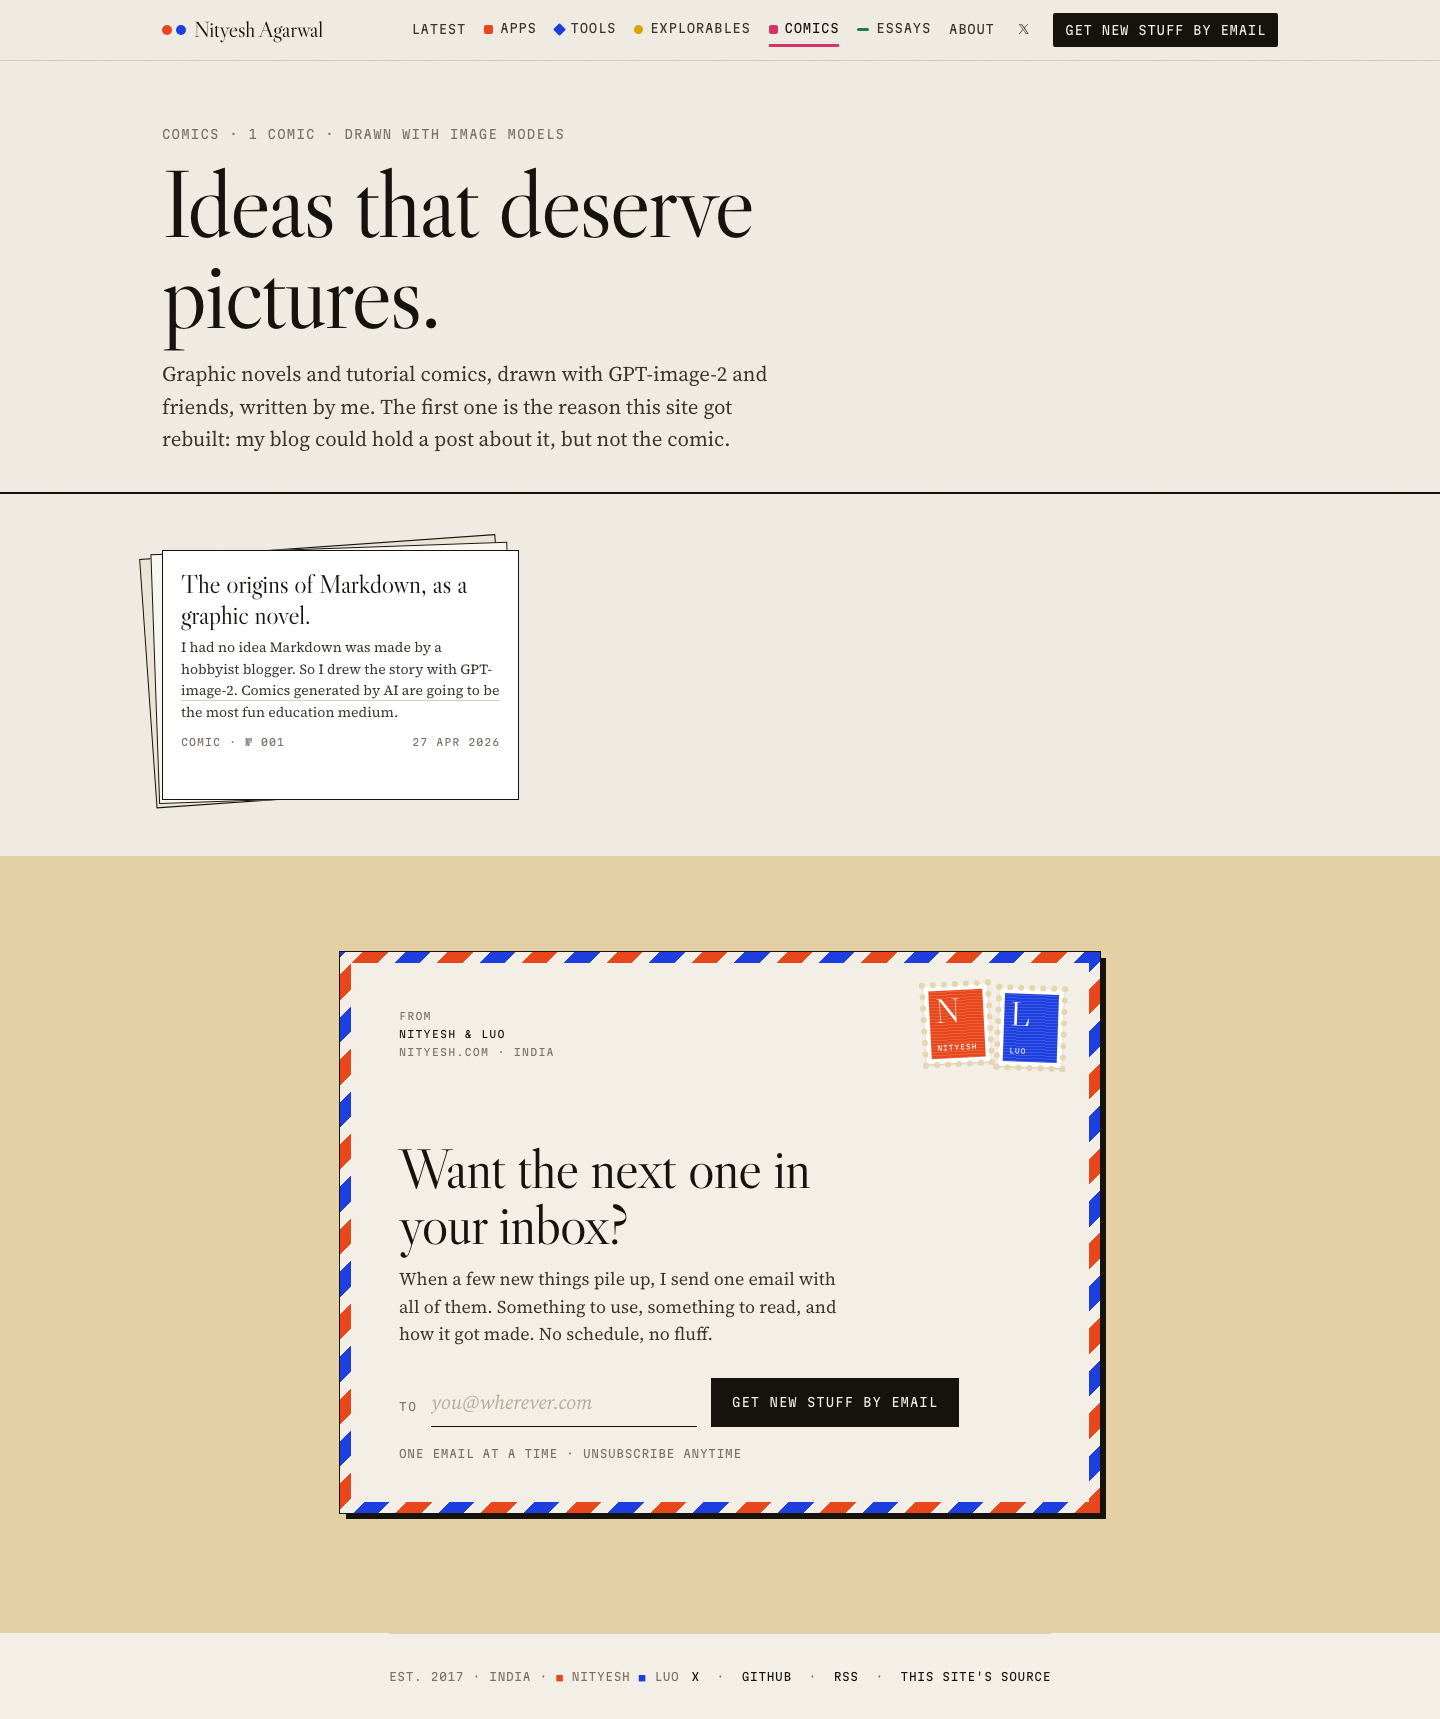
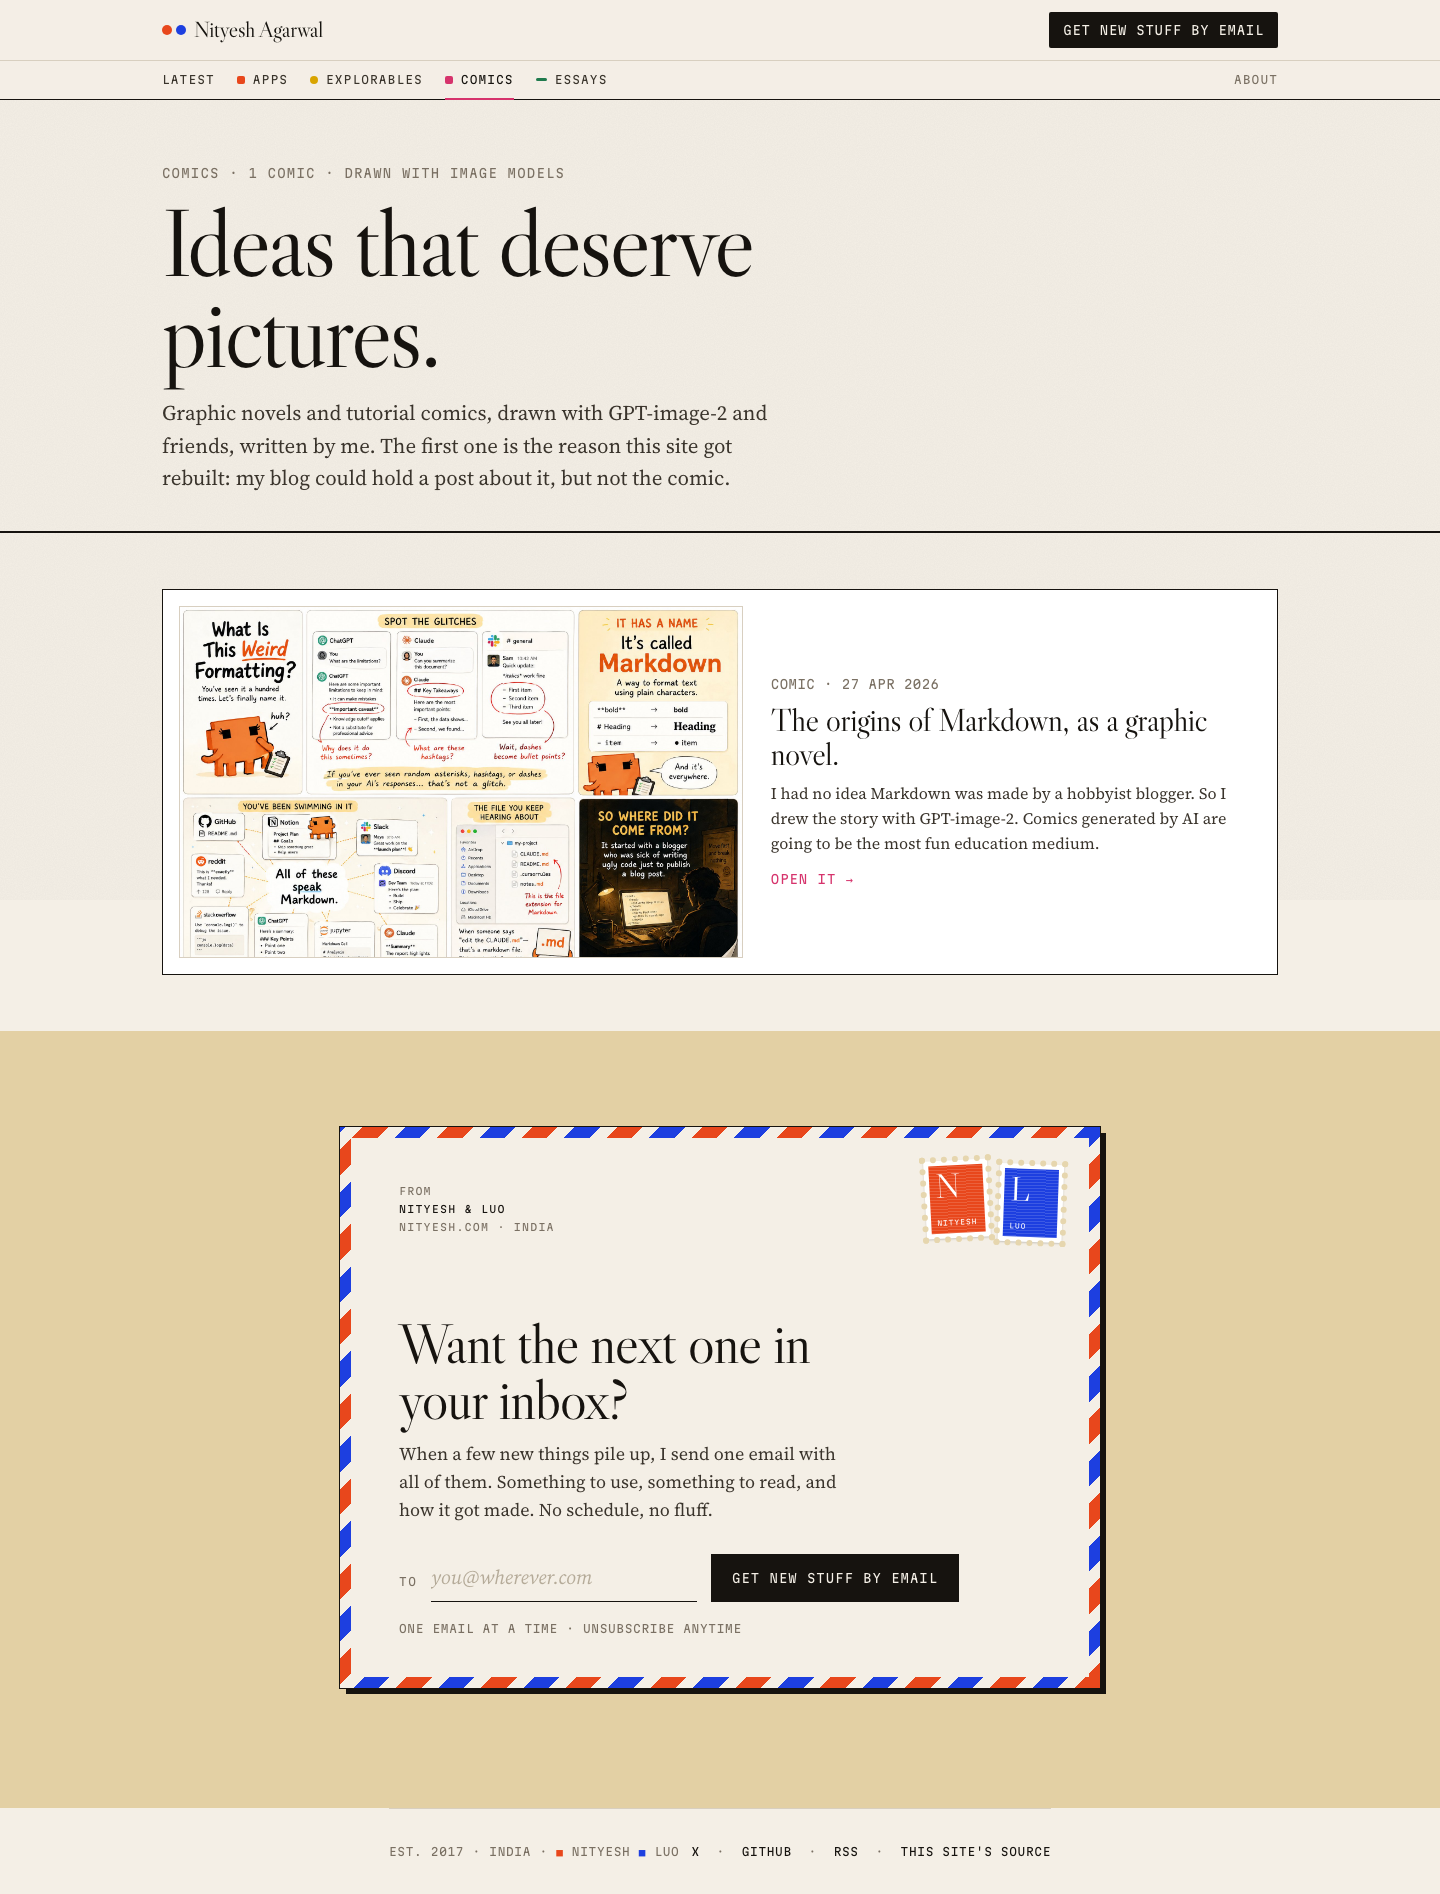
Red pen on the shelves: the workbench, pictures first, one column of essays (#69)
* Red pen on the shelves: the workbench, pictures first, one column of essays

Notes 10–15. /apps/ is 'The Workbench' with the count in the title, no lede, no
skills list (the on_github scope goes with it; /tools now lands on /apps/).
Explorables and comics stack one under the other with the thing's own picture
first: the explorable's front page, the comic's first page. The typewriter is
gone from /essays/ (and Post.in_the_typewriter with it); the eras sit beneath
the current era in one column.

* The kinds shelf scrolls sideways only on phones

The row is 1px taller than its box, and iOS let a swipe drag the links up and
down inside the strip. overflow-y hidden + touch-action pan-x.

* Nothing hangs below the shelf on phones, so nothing can scroll

---------

diff --git a/app/assets/stylesheets/application.css b/app/assets/stylesheets/application.css
@@ -726,7 +726,6 @@ button.door { background: transparent; color: var(--ink); cursor: pointer; }
 .shelf-head .mono { color: var(--mute); letter-spacing: .08em; }
 .shelf-head .mono.ink-n { color: var(--n); }
 #tools { margin-top: 64px; }
-.shelf-head.typewriter { margin-top: 56px; }
 
 /* Apps: a card per app in print, its preview as the art, lifting on hover. */
 .machines { display: grid; grid-template-columns: repeat(2, 1fr); gap: 14px; }
@@ -742,21 +741,21 @@ button.door { background: transparent; color: var(--ink); cursor: pointer; }
 .mach .meta .mono { color: var(--mute); }
 
 /* Explorables and comics: three cards, fanned, the top one carrying the ship. */
-.decks { display: grid; grid-template-columns: repeat(3, 1fr); gap: 22px; }
-.deck { position: relative; height: 250px; perspective: 900px; }
-.deck .card { position: absolute; inset: 0; border: 1px solid var(--ink); background: #fff; padding: 18px; transition: transform .35s cubic-bezier(.2, .7, .2, 1); transform-origin: bottom left; }
-.deck .card:nth-child(1) { transform: rotate(-4deg) translate(-6px, 8px); background: var(--paper-2); }
-.deck .card:nth-child(2) { transform: rotate(-2deg) translate(-3px, 4px); background: #F9F6EF; }
-.deck:hover .card:nth-child(1) { transform: rotate(-9deg) translate(-14px, 10px); }
-.deck:hover .card:nth-child(2) { transform: rotate(-4deg) translate(-7px, 5px); }
-.deck:hover .card:nth-child(3) { transform: rotate(1deg) translate(4px, -6px); }
-.deck .card h4 { font-family: var(--display); font-weight: 400; font-size: 26px; margin: 0 0 6px; letter-spacing: -.01em; }
-.deck:hover .card h4 { color: var(--k, var(--n)); }
-.deck .card p { font-size: 14px; color: var(--ink-2); margin: 0; display: -webkit-box; -webkit-line-clamp: 4; -webkit-box-orient: vertical; overflow: hidden; }
-.deck .card .foot { position: absolute; left: 18px; right: 18px; bottom: 14px; display: flex; justify-content: space-between; gap: 12px; font-family: var(--mono); font-size: 10px; letter-spacing: .1em; text-transform: uppercase; color: var(--mute); }
+.rows { display: grid; gap: 28px; }
+.row { display: grid; grid-template-columns: 1.15fr 1fr; gap: 28px; align-items: center; border: 1px solid var(--ink); background: #fff; padding: 16px; transition: transform .25s cubic-bezier(.2, .7, .2, 1), box-shadow .25s; }
+.row:hover { transform: translate(-3px, -3px); box-shadow: 6px 6px 0 var(--k, var(--ink)); }
+.row .art { aspect-ratio: 16 / 10; overflow: hidden; border: 1px solid var(--rule); background: var(--paper-2); }
+.row .art img { width: 100%; height: 100%; object-fit: cover; object-position: top; display: block; }
+.row .meta { display: flex; flex-direction: column; gap: 10px; padding-right: 12px; }
+.row .meta .mono { color: var(--mute); }
+.row h4 { font-family: var(--display); font-weight: 400; font-size: 32px; letter-spacing: -.015em; line-height: 1.05; margin: 0; }
+.row:hover h4 { color: var(--k, var(--n)); }
+.row p { font-size: 16px; color: var(--ink-2); margin: 0; }
+.row .open { font-family: var(--mono); font-size: 12px; letter-spacing: .08em; text-transform: uppercase; color: var(--k, var(--ink)); margin-top: 4px; }
 
-/* Essays: the current era and the typewriter on the left, the earlier eras on the right. */
-.essays { display: grid; grid-template-columns: 1.3fr 1fr; gap: 40px; align-items: start; }
+/* Essays: the current era, then the earlier eras beneath it, one column. */
+.essays > .shelf-head, .essays > .essay-list, .essays > .eras, .essays > .aside { max-width: 860px; }
+.shelf-head.earlier { margin-top: 64px; }
 .essay-list { border-top: 1px solid var(--ink); }
 .essay-list > a, .essay-list > span { display: grid; grid-template-columns: 110px 1fr; gap: 16px; padding: 16px 0; border-bottom: 1px solid var(--rule); align-items: baseline; }
 .essay-list a:hover h4 { color: var(--n); }
@@ -788,7 +787,7 @@ button.door { background: transparent; color: var(--ink); cursor: pointer; }
 /* ---- Responsive ---- */
 @media (max-width: 860px) {
   :root { --rail: 58px; }
-  .machines, .decks, .essays { grid-template-columns: 1fr; }
+  .machines, .row { grid-template-columns: 1fr; }
   .ph { padding: 44px 0 28px; }
   .ph p { font-size: 18px; }
   .shelf { padding: 40px 0; }
@@ -832,8 +831,11 @@ button.door { background: transparent; color: var(--ink); cursor: pointer; }
   .mast .cta { padding: 8px 11px; font-size: 11px; }
   .mast .cta .l { display: none; }
   .mast .cta .s { display: inline; }
-  .nav { gap: 18px; overflow-x: auto; scrollbar-width: none; -webkit-overflow-scrolling: touch; -webkit-mask-image: linear-gradient(90deg, #000 calc(100% - 44px), transparent); mask-image: linear-gradient(90deg, #000 calc(100% - 44px), transparent); }
+  /* Sideways only: the row is 1px taller than its box (the underline hangs below), and
+     without overflow-y hidden iOS lets a swipe drag the links up and down inside the strip. */
+  .nav { gap: 18px; overflow-x: auto; overflow-y: hidden; touch-action: pan-x; overscroll-behavior-x: contain; scrollbar-width: none; -webkit-overflow-scrolling: touch; -webkit-mask-image: linear-gradient(90deg, #000 calc(100% - 44px), transparent); mask-image: linear-gradient(90deg, #000 calc(100% - 44px), transparent); }
   .nav::-webkit-scrollbar { display: none; }
+  .nav a { margin-bottom: 0; }   /* nothing hangs below the box, so there is nothing to scroll to */
   .nav .about { margin-left: 0; padding-right: 32px; }
 }
 

diff --git a/test/controllers/shelves_controller_test.rb b/test/controllers/shelves_controller_test.rb
@@ -3,10 +3,13 @@ require "test_helper"
 # The shelves: one page per kind of thing in the log, and the essays by era. Each reads
 # the same published ships the homepage does, so a draft never reaches a shelf either.
 class ShelvesControllerTest < ActionDispatch::IntegrationTest
-  test "the apps page shelves the app ships as cards, with their line from the log" do
+  test "the apps page is the workbench: every app ship as a card" do
     get "/apps/"
     assert_response :success
-    assert_select ".ph .kick", text: "The catalogue · 1 app in print"
+    assert_select ".ph .kick", text: "The Workbench"
+    assert_select ".ph h1", text: "1 software tool I built for myself"
+    assert_select ".ph p", count: 0
+    assert_select "#tools", count: 0
     assert_select ".machines a.mach[href=?]", "https://curatedconnections.io" do
       assert_select ".meta h4", text: "Curated Connections."
       assert_select ".meta p", text: "Self-driving community software."
@@ -14,9 +17,10 @@ class ShelvesControllerTest < ActionDispatch::IntegrationTest
     end
     assert_select ".machines a.mach", count: 1
     assert_select ".machines", text: /#{ships(:drafted).title}/, count: 0
+    assert_select ".machines", text: /#{ships(:phone).title}/, count: 0
   end
 
-  test "an app card's art is its preview, or its number when it has none" do
+  test "an app card's art is its preview, or its kind when it has none" do
     get "/apps/"
     assert_select "#ship_#{ships(:cc).id} .art .no", text: "App"
 
@@ -25,50 +29,41 @@ class ShelvesControllerTest < ActionDispatch::IntegrationTest
     assert_select "#ship_#{ships(:cc).id} .art video[muted][loop][playsinline][preload=none][data-controller=lazy-video][data-src=?]", ships(:cc).preview_path
   end
 
-  test "skills and parts are the tools that live on GitHub, each pointing at its log entry" do
-    get "/apps/"
-    assert_select "#tools h2", text: "Skills & parts."
-    assert_select "#tools + .essay-list a", count: 1
-    assert_select "#tools + .essay-list a[href=?]", "/#ship_#{ships(:phone).id}" do
-      assert_select ".mono", text: "Sep 2026"
-      assert_select "h4", text: ships(:phone).title
-    end
-    assert_select "#tools + .essay-list", text: /#{ships(:clock).title}/, count: 0
-  end
-
-  test "the tools shelf is the second half of the apps page" do
+  test "/tools goes to the apps page" do
     get "/tools/"
     assert_response :moved_permanently
-    assert_redirected_to "/apps/#tools"
+    assert_redirected_to "/apps/"
     get "/tools"
-    assert_redirected_to "/apps/#tools"
+    assert_redirected_to "/apps/"
   end
 
-  test "the explorables page deals each explorable as a deck that opens it" do
+  test "the explorables page stacks each explorable with its front page as the picture" do
+    ships(:hotwire).preview.attach(io: StringIO.new("jpg".b), filename: "shot-hotwire.jpg", content_type: "image/jpeg")
     get "/explorables/"
     assert_response :success
     assert_select ".ph .kick", text: "Explorables · 1 deck"
-    assert_select ".decks a.deck[href=?]", "https://nityesh.com/hotwire/" do
-      assert_select ".card", count: 3
-      assert_select ".card h4", text: "Hotwire, explored."
-      assert_select ".card .foot span", text: "Deck"
-      assert_select ".card .foot span", text: "9 Sep 2026"
+    assert_select ".rows a.row[href=?]", "https://nityesh.com/hotwire/" do
+      assert_select ".art img[src=?]", ships(:hotwire).preview_path
+      assert_select ".meta h4", text: "Hotwire, explored."
+      assert_select ".meta .mono", text: "Explorable · 9 Sep 2026"
     end
-    assert_select ".decks a.deck", count: 1
+    assert_select ".rows a.row", count: 1
   end
 
-  test "the comics page deals each comic as a deck" do
+  test "the comics page stacks each comic with its first page as the picture" do
+    ships(:markdown).preview.attach(io: StringIO.new("jpg".b), filename: "page-1.jpg", content_type: "image/jpeg")
     get "/comics/"
     assert_response :success
     assert_select ".ph .kick", text: "Comics · 1 comic · drawn with image models"
-    assert_select ".decks a.deck[href=?]", ships(:markdown).check_it_out_url do
-      assert_select ".card h4", text: ships(:markdown).title
-      assert_select ".card .foot span", text: "Comic"
+    assert_select ".rows a.row[href=?]", ships(:markdown).check_it_out_url do
+      assert_select ".art img[src=?]", ships(:markdown).preview_path
+      assert_select ".meta h4", text: ships(:markdown).title
+      assert_select ".meta .mono", text: /Comic/
     end
-    assert_select ".decks a.deck", count: 1
+    assert_select ".rows a.row", count: 1
   end
 
-  test "the essays page lists the current era's articles, then the drafts in the typewriter" do
+  test "the essays page lists the current era's articles, then the earlier eras beneath" do
     get "/essays/"
     assert_response :success
     assert_select ".ph .kick", text: "The library · 1 essay · 2 eras"
@@ -80,22 +75,9 @@ class ShelvesControllerTest < ActionDispatch::IntegrationTest
       assert_select ".mono", text: posts(:published).published_at.strftime("%-d %b %Y")
     end
     assert_select "#current a", count: 1
-
-    assert_select "#typewriter span.rise", count: 1 do
-      assert_select ".mono", text: "Draft"
-      assert_select "h4", text: posts(:promised).title
-      assert_select "p", text: posts(:promised).excerpt
-    end
-    assert_select "#typewriter a", count: 0
-  end
-
-  # A draft is announced by its excerpt; the rest stay private. A published article is
-  # never a draft, and a scheduled one is already on its way.
-  test "only drafts with an excerpt and no publish stamp reach the typewriter" do
-    get "/essays/"
-    assert_select "#typewriter", text: /#{posts(:draft).title}/, count: 0
-    assert_select "#typewriter", text: /#{posts(:scheduled).title}/, count: 0
-    assert_select "#current", text: /#{posts(:promised).title}/, count: 0
+    assert_select "#typewriter", count: 0
+    assert_select ".essays", text: /#{posts(:promised).title}/, count: 0
+    assert_select "#current ~ .shelf-head.earlier h2", text: "Earlier eras"
   end
 
   test "the earlier eras link their archives with years and counts" do

diff --git a/app/controllers/shelves_controller.rb b/app/controllers/shelves_controller.rb
@@ -2,26 +2,26 @@
 # filtered read of the same ships the homepage lists, so nothing here is a second source.
 class ShelvesController < ApplicationController
   allow_unauthenticated_access
-  # /tools is a redirect; sending it to /tools/ first would be a redirect to a redirect.
+  # /tools once had its own shelf; it's the apps page now. Redirecting /tools straight there
+  # avoids a redirect to a redirect via /tools/.
   skip_before_action :redirect_to_trailing_slash, only: :tools
 
   def apps
-    @apps  = Ship.log.app.with_attached_preview.with_attached_poster.includes(:post)
-    @tools = Ship.log.tool.on_github
-    fresh_when etag: [ @apps, @tools ]
+    @apps = Ship.log.app.with_attached_preview.with_attached_poster.includes(:post)
+    fresh_when etag: @apps
   end
 
   def tools
-    redirect_to "#{apps_path}/#tools", status: :moved_permanently
+    redirect_to "#{apps_path}/", status: :moved_permanently
   end
 
   def explorables
-    @ships = Ship.log.explorable
+    @ships = Ship.log.explorable.with_attached_preview.with_attached_poster.includes(:post)
     fresh_when etag: @ships
   end
 
   def comics
-    @ships = Ship.log.comic
+    @ships = Ship.log.comic.with_attached_preview.with_attached_poster.includes(:post)
     fresh_when etag: @ships
   end
 
@@ -29,7 +29,6 @@ class ShelvesController < ApplicationController
     @eras = Tag.eras.reverse
     @current = @eras.shift
     @articles = @current ? @current.posts.articles.published.ordered : Post.none
-    @drafts = Post.in_the_typewriter
-    fresh_when etag: [ @eras, @articles.to_a, @drafts.to_a ]
+    fresh_when etag: [ @eras, @articles.to_a ]
   end
 end

diff --git a/app/models/post.rb b/app/models/post.rb
@@ -25,10 +25,6 @@ class Post < ApplicationRecord
   # bundle itself, at the address its relative links resolve against. Other drafts keep
   # their editor preview; nothing else changes for the writer.
   scope :viewable, ->(writer:) { writer ? published.or(where(type: "Explorable")) : published }
-  # The essays page's "In the typewriter": drafts promised in public, by title and excerpt.
-  # An excerpt is the promise — a draft without one is a note to self, not an announcement —
-  # and a publish stamp means it once ran, or is scheduled to, which is not "unwritten".
-  scope :in_the_typewriter, -> { articles.draft.where(published_at: nil).where.not(excerpt: [ nil, "" ]).order(created_at: :desc) }
 
   # Title and subtitle are single-line by design; squish out any newline that sneaks
   # past the editor (paste, older clients) so headlines never carry hard breaks.

diff --git a/app/models/ship.rb b/app/models/ship.rb
@@ -29,7 +29,6 @@ class Ship < ApplicationRecord
   # numbering order, so a batch shipped together reads top-down as it was logged.
   scope :log, -> { published.ordered }
   # Skills and parts: the tools whose door one opens a repository.
-  scope :on_github, -> { where("check_it_out_url LIKE ?", "https://github.com/%") }
 
   def self.by_month = log.group_by { |ship| ship.shipped_on.beginning_of_month }
 
